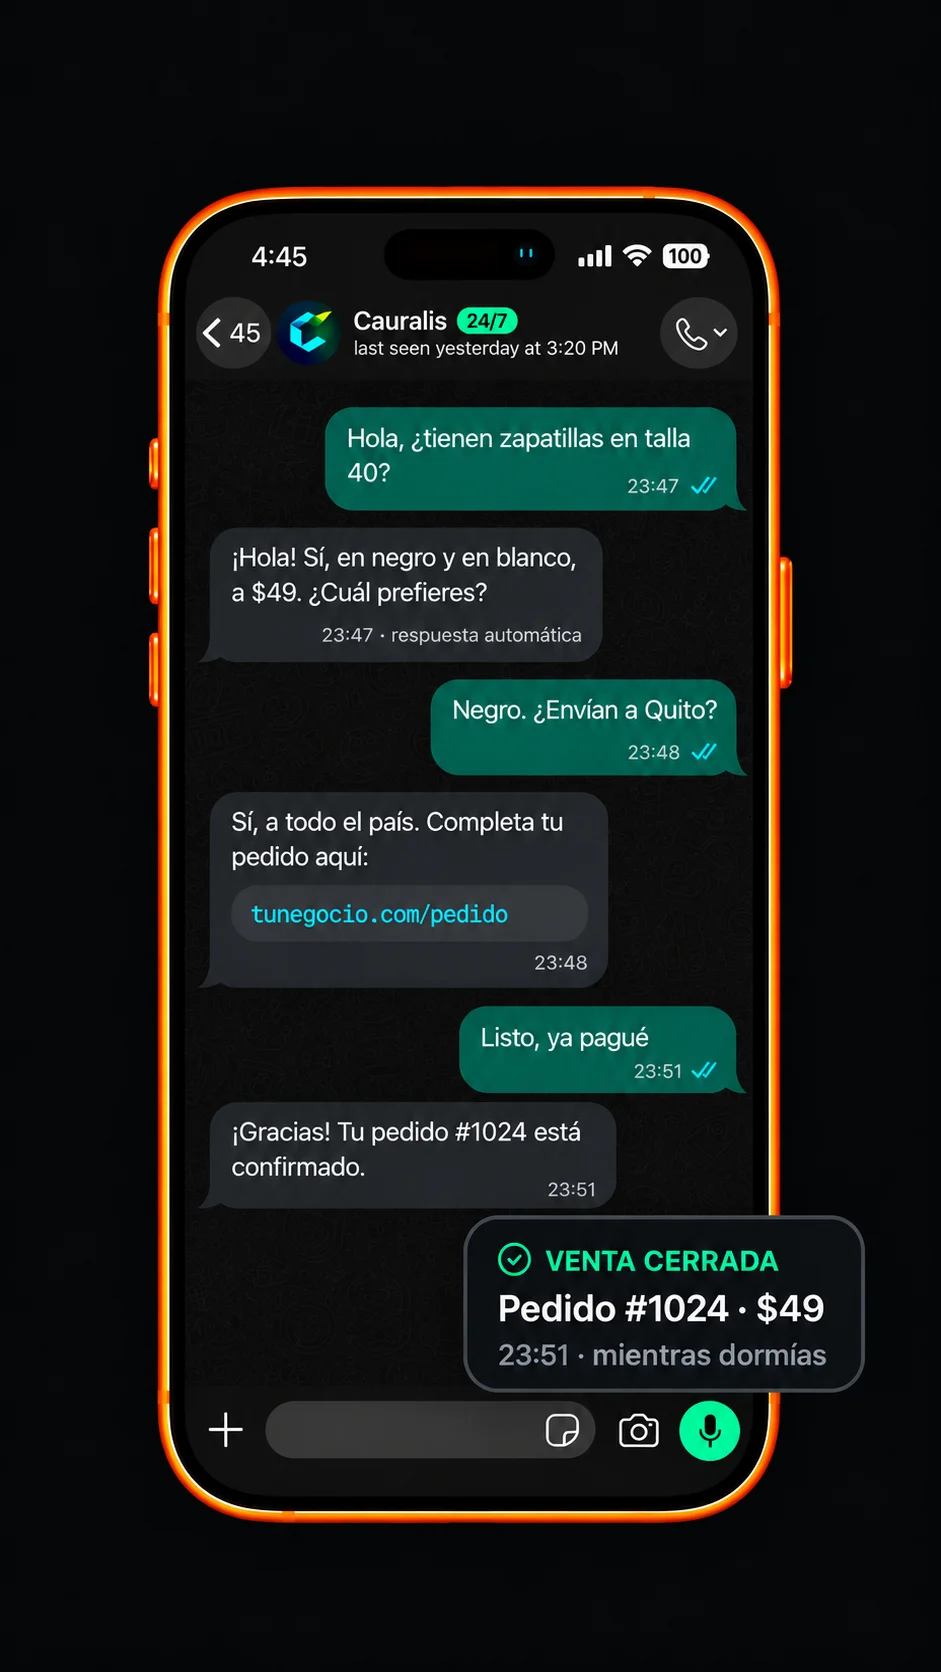
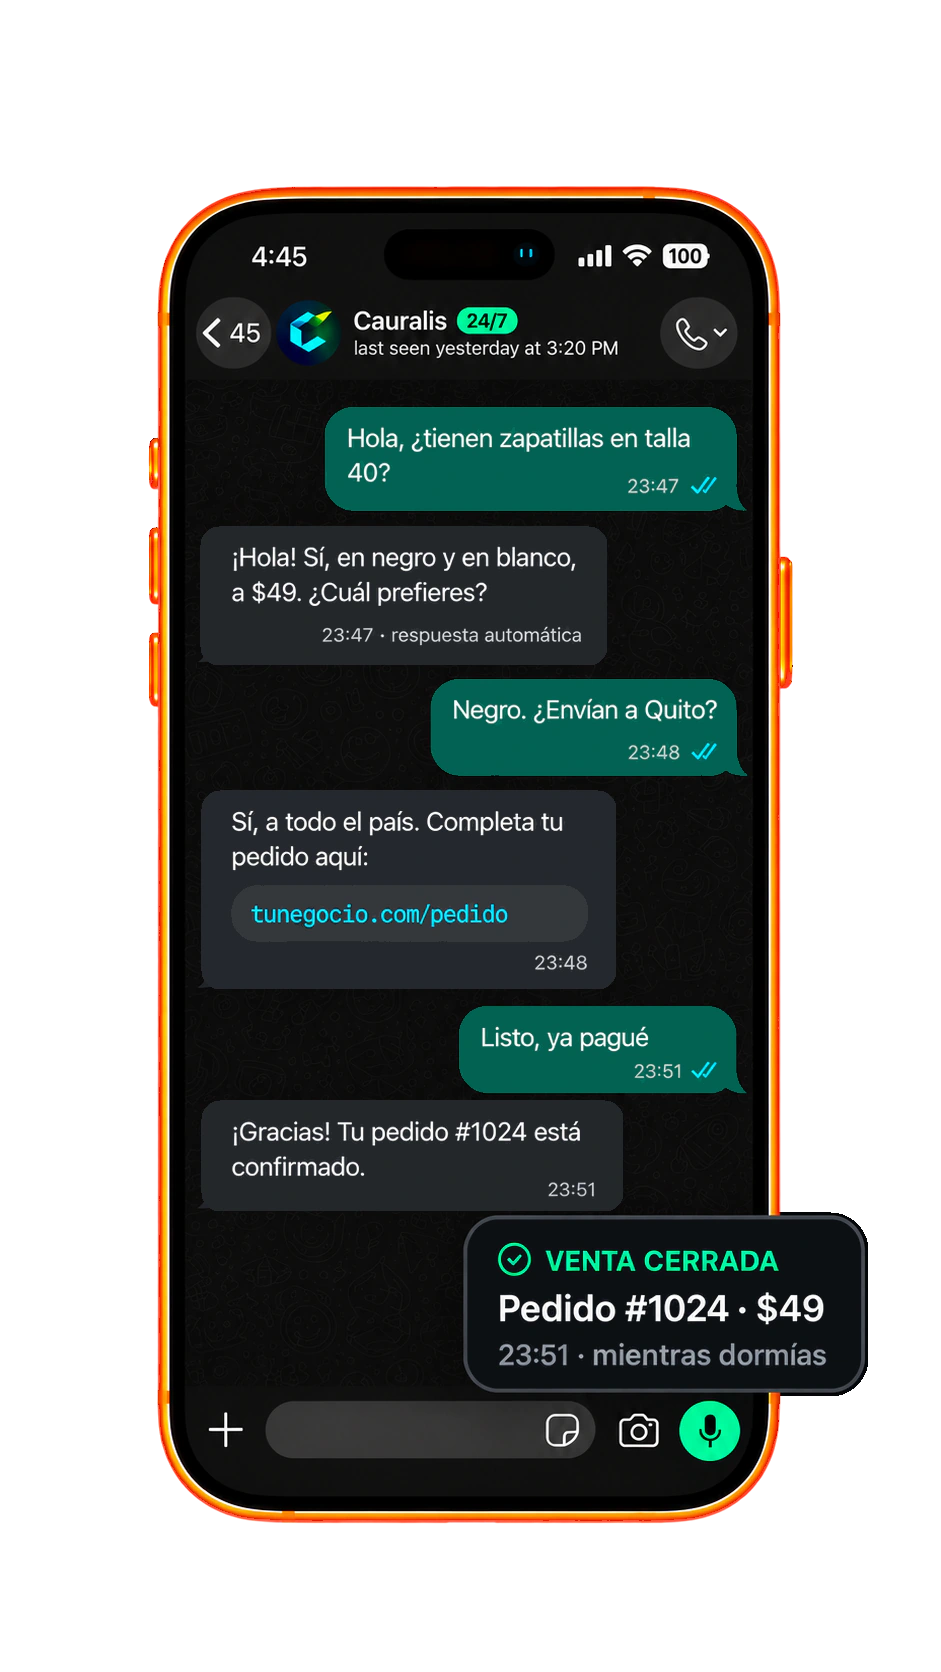
feat: chat animado más rápido, con fondo transparente y globos nítidos
- Mensajes más seguidos (ciclo de 16 s a 12,4 s)
- Fondo transparente alrededor del teléfono, conservando el brillo del marco
- Globos limpios de manchas de compresión, recorte redondeado y canvas a resolución original

diff --git a/components/animations/ChatAnimado.tsx b/components/animations/ChatAnimado.tsx
@@ -5,23 +5,25 @@ import { useEffect, useRef } from "react";
 /*
  * Celular con WhatsApp animado (origen: animaciones/cauralis-whatsapp-animado.html).
  * Dos imágenes (chat vacío y chat lleno): cada mensaje aparece recortando su zona de la imagen llena.
- * Ciclo de 16 s. Se pausa cuando no está en pantalla y respeta "reducir movimiento".
+ * Fondo transparente fuera del teléfono. Ciclo de 12,4 s. Se pausa fuera de pantalla y respeta "reducir movimiento".
  */
 const VACIO = "/animaciones/chat/vacio.webp";
 const LLENO = "/animaciones/chat/lleno.webp";
-const DURACION = 16000;
+const DURACION = 12400;
+const MOSTRAR_COMPLETO = 8800; // aparece la imagen final con la venta cerrada
+const DESVANECER = 11600; // empieza a desvanecerse para reiniciar
 const ANCHO_ORIGEN = 941;
 const ALTO_ORIGEN = 1672;
 
 // [x, y, ancho, alto, radio, inicio en ms] de cada globo dentro de la imagen original
 const GLOBOS = [
-  [319, 402, 436, 114, 22, 1500],
-  [197, 523, 413, 145, 22, 3300],
-  [424, 675, 332, 108, 22, 5300],
-  [198, 787, 421, 205, 22, 7000],
-  [452, 1001, 304, 98, 22, 9200],
-  [198, 1097, 428, 117, 22, 10800],
-  [460, 1212, 408, 184, 38, 12100],
+  [319, 402, 436, 114, 22, 900],
+  [197, 523, 413, 145, 22, 2200],
+  [424, 675, 332, 108, 22, 3600],
+  [198, 787, 421, 205, 22, 4800],
+  [452, 1001, 304, 98, 22, 6400],
+  [198, 1097, 428, 117, 22, 7500],
+  [460, 1212, 408, 184, 38, 8400],
 ] as const;
 
 const suave = (x: number) => {
@@ -44,23 +46,28 @@ export default function ChatAnimado({ className }: { className?: string }) {
 
     const dibujar = (ms: number) => {
       const t = ms % DURACION;
-      const desvanecer = 1 - suave((t - 14700) / 650);
+      const desvanecer = 1 - suave((t - DESVANECER) / 650);
+      ctx.setTransform(1, 0, 0, 1, 0, 0);
+      ctx.clearRect(0, 0, canvas.width, canvas.height); // el fondo queda transparente
       ctx.setTransform(canvas.width / ANCHO_ORIGEN, 0, 0, canvas.height / ALTO_ORIGEN, 0, 0);
+      ctx.imageSmoothingQuality = "high";
       ctx.globalAlpha = 1;
       ctx.drawImage(vacio, 0, 0, ANCHO_ORIGEN, ALTO_ORIGEN);
-      for (const [x, y, w, h, , inicio] of GLOBOS) {
-        const alfa = suave((t - inicio) / 240) * desvanecer;
+      for (const [x, y, w, h, r, inicio] of GLOBOS) {
+        const alfa = suave((t - inicio) / 220) * desvanecer;
         if (alfa <= 0) continue;
         ctx.save();
         ctx.globalAlpha = alfa;
         ctx.beginPath();
-        ctx.rect(x, y, w, h);
+        // Recorte con la forma redondeada del globo (sin rectángulo alrededor)
+        if (ctx.roundRect) ctx.roundRect(x, y, w, h, r);
+        else ctx.rect(x, y, w, h);
         ctx.clip();
         ctx.drawImage(lleno, 0, 0, ANCHO_ORIGEN, ALTO_ORIGEN);
         ctx.restore();
       }
-      if (t >= 12500) {
-        ctx.globalAlpha = suave((t - 12500) / 220) * desvanecer;
+      if (t >= MOSTRAR_COMPLETO) {
+        ctx.globalAlpha = suave((t - MOSTRAR_COMPLETO) / 220) * desvanecer;
         ctx.drawImage(lleno, 0, 0, ANCHO_ORIGEN, ALTO_ORIGEN);
         ctx.globalAlpha = 1;
       }
@@ -92,7 +99,7 @@ export default function ChatAnimado({ className }: { className?: string }) {
       .then(() => {
         if (cancelado) return;
         if (reducido) {
-          dibujar(13000); // conversación completa, sin movimiento
+          dibujar(MOSTRAR_COMPLETO + 1000); // conversación completa, sin movimiento
           return;
         }
         dibujar(0);
@@ -110,8 +117,8 @@ export default function ChatAnimado({ className }: { className?: string }) {
   return (
     <canvas
       ref={canvasRef}
-      width={1080}
-      height={1920}
+      width={ANCHO_ORIGEN}
+      height={ALTO_ORIGEN}
       role="img"
       aria-label="Demostración de Cauralis: una conversación de WhatsApp a las 23:47 donde el chatbot responde, envía el enlace de pago y confirma una venta de 49 dólares."
       className={className}

diff --git a/components/sections/Chatbots.tsx b/components/sections/Chatbots.tsx
@@ -106,7 +106,7 @@ export default function Chatbots() {
             className="pointer-events-none absolute inset-0 bg-[radial-gradient(closest-side,rgb(61_212_122/0.12),transparent)]"
           />
           {/* Celular con WhatsApp animado: los mensajes aparecen uno por uno y termina en una venta */}
-          <ChatAnimado className="relative aspect-[9/16] h-auto w-full [mask-image:radial-gradient(ellipse_75%_70%_at_50%_50%,black_70%,transparent)]" />
+          <ChatAnimado className="relative aspect-[941/1672] h-auto w-full" />
         </div>
       </div>
 
